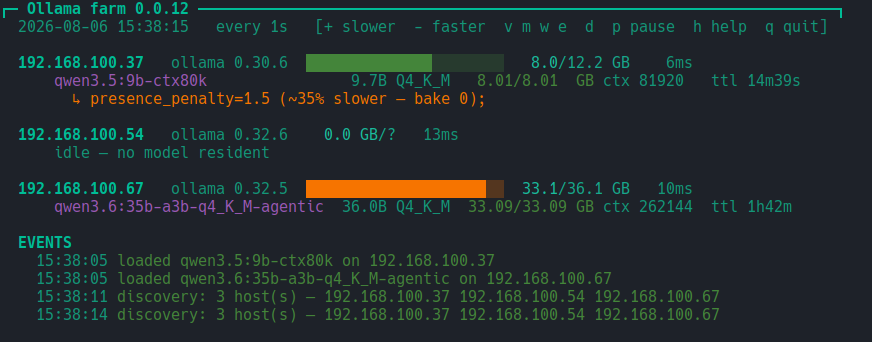
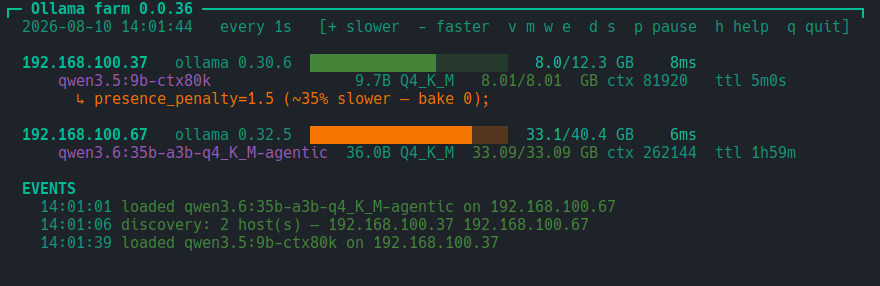
docs: refresh the project metadata and dashboard capture
The README still described a three-host v0.0.12 image after the dashboard capture was replaced with a current two-host v0.0.36 frame. Update the caption and consolidate the author, licence, and AI disclosure near the top so the duplicate closing licence section is unnecessary.

The documentation gate previously checked presentation rather than substance by requiring that closing heading. Make it require the GPLv3-or-later declaration, a LICENSE link, the licence text, and the script header instead, so the streamlined layout remains protected against meaningful licence drift.

Inspected the 880x286 PNG and verified all ten localPipeline.sh stages. ShellCheck is clean and the live stage read the Ollama version from 192.168.100.37. No probe or release workflow was run.

Changed region(s): [[0.0, 0.1399, 0.9289, 0.951], [0.0, 0.0, 0.9908, 0.1119]]

diff --git a/README.md b/README.md
@@ -16,15 +16,16 @@ terminal.
 <sub>Click the preview for the full-quality recording
 ([`media/showcase.webm`](media/showcase.webm), VP9, 38 s).</sub>
 
-![ollamaFarm watching three Ollama hosts](media/currentState.png)
+![ollamaFarm watching two Ollama hosts](media/currentState.png)
 
-<sub>Three hosts, one of them found by discovery (`.54`, no known VRAM ceiling, so `?`);
-`.37` flagged for `presence_penalty`. Captured from v0.0.12 — later versions show the
-version in the header rule.</sub>
+<sub>Two hosts after discovery; `.37` is flagged for `presence_penalty`. Captured from
+v0.0.36.</sub>
 
-**Author:** Marcel Petrick &lt;mail@marcelpetrick.it&gt;
-**License:** GPLv3 or later — see [LICENSE](LICENSE).
-**Note:** this project was generated with AI assistance.
+**Author: Marcel Petrick <mail@marcelpetrick.it>**
+
+**License: GPLv3 or later. See `LICENSE`.**
+
+**Note: project is generated with AI.**
 
 ---
 
@@ -59,7 +60,7 @@ version in the header rule.</sub>
 Real output, two servers busy, 104-column terminal:
 
 ```
-┌─ Ollama farm 0.0.36 ───────────────────────────────────────────────────────────────────────┐
+┌─ Ollama farm 0.0.37 ───────────────────────────────────────────────────────────────────────┐
   2026-08-06 15:36:49   every 1s   [+ slower  - faster  v m w e  d  p pause  h help  q quit]
 
   192.168.100.37   ollama 0.30.6  ██████████████░░░░░░░░   8.0/12.3 GB    6ms
@@ -82,7 +83,7 @@ edge — see [VRAM ceilings](#vram-ceilings).
 <summary>The same view with things going wrong (fabricated, to show the alarm states together)</summary>
 
 ```
-┌─ Ollama farm 0.0.36 ──────────────────────────────────────────────────   PAUSED — press p to resume ┐
+┌─ Ollama farm 0.0.37 ──────────────────────────────────────────────────   PAUSED — press p to resume ┐
   2026-08-13 03:04:59   every 5s   [+ slower  - faster  v m w e  d  p pause  h help  q quit]
 
   192.168.100.13   ollama 0.32.5  ██████████████████████  35.9/36.1 GB  1840ms
@@ -491,7 +492,7 @@ bitten by: [AGENTS.md](AGENTS.md).
 
 Semantic versioning, patch bumped on every commit. `VERSION` near the top of
 `ollamaFarm.sh` is the single source of truth; it is rendered in the header
-(`┌─ Ollama farm 0.0.36 ──…──┐`) so a screenshot or a pasted frame identifies its build,
+(`┌─ Ollama farm 0.0.37 ──…──┐`) so a screenshot or a pasted frame identifies its build,
 and `--version` prints it.
 
 Release tags are created only by the manual Release workflow, after its quality gate.
@@ -499,9 +500,3 @@ The workflow derives `vN.N.N` from `VERSION` rather than accepting a second vers
 input, so the script remains the single source of truth.
 
 While the major version is `0` the interface is not stable.
-
----
-
-## License
-
-GPLv3. See [LICENSE](LICENSE).
